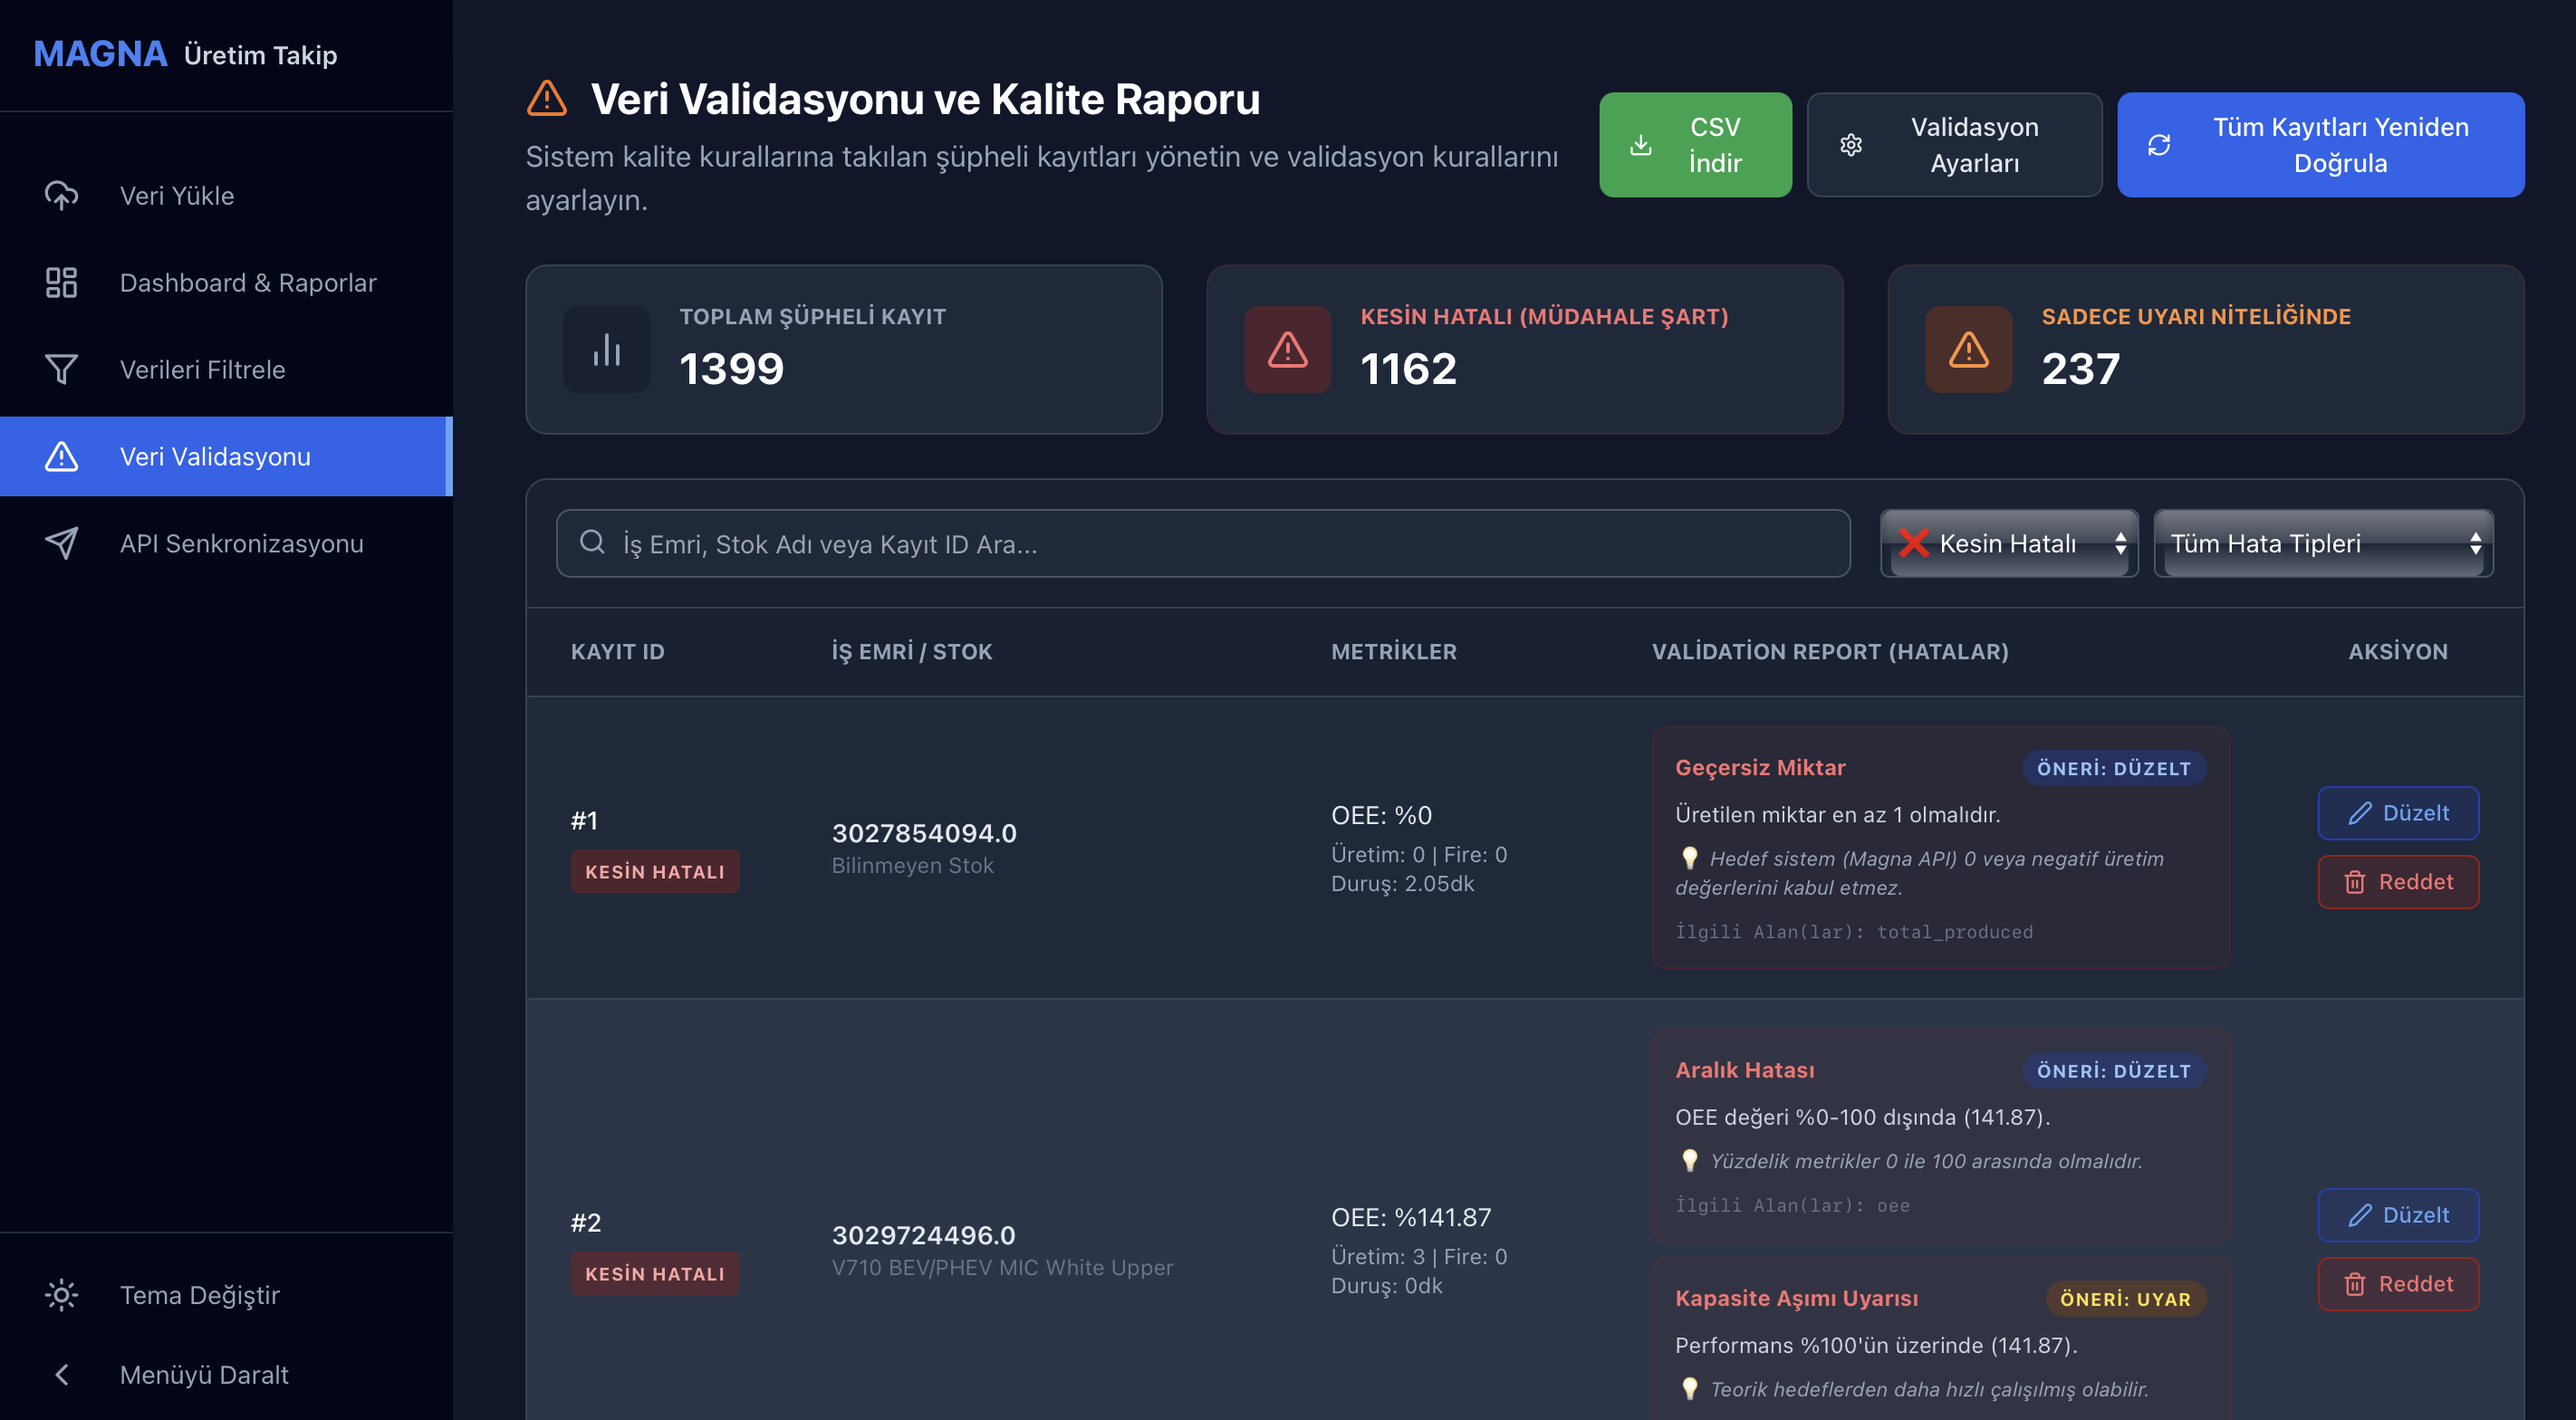
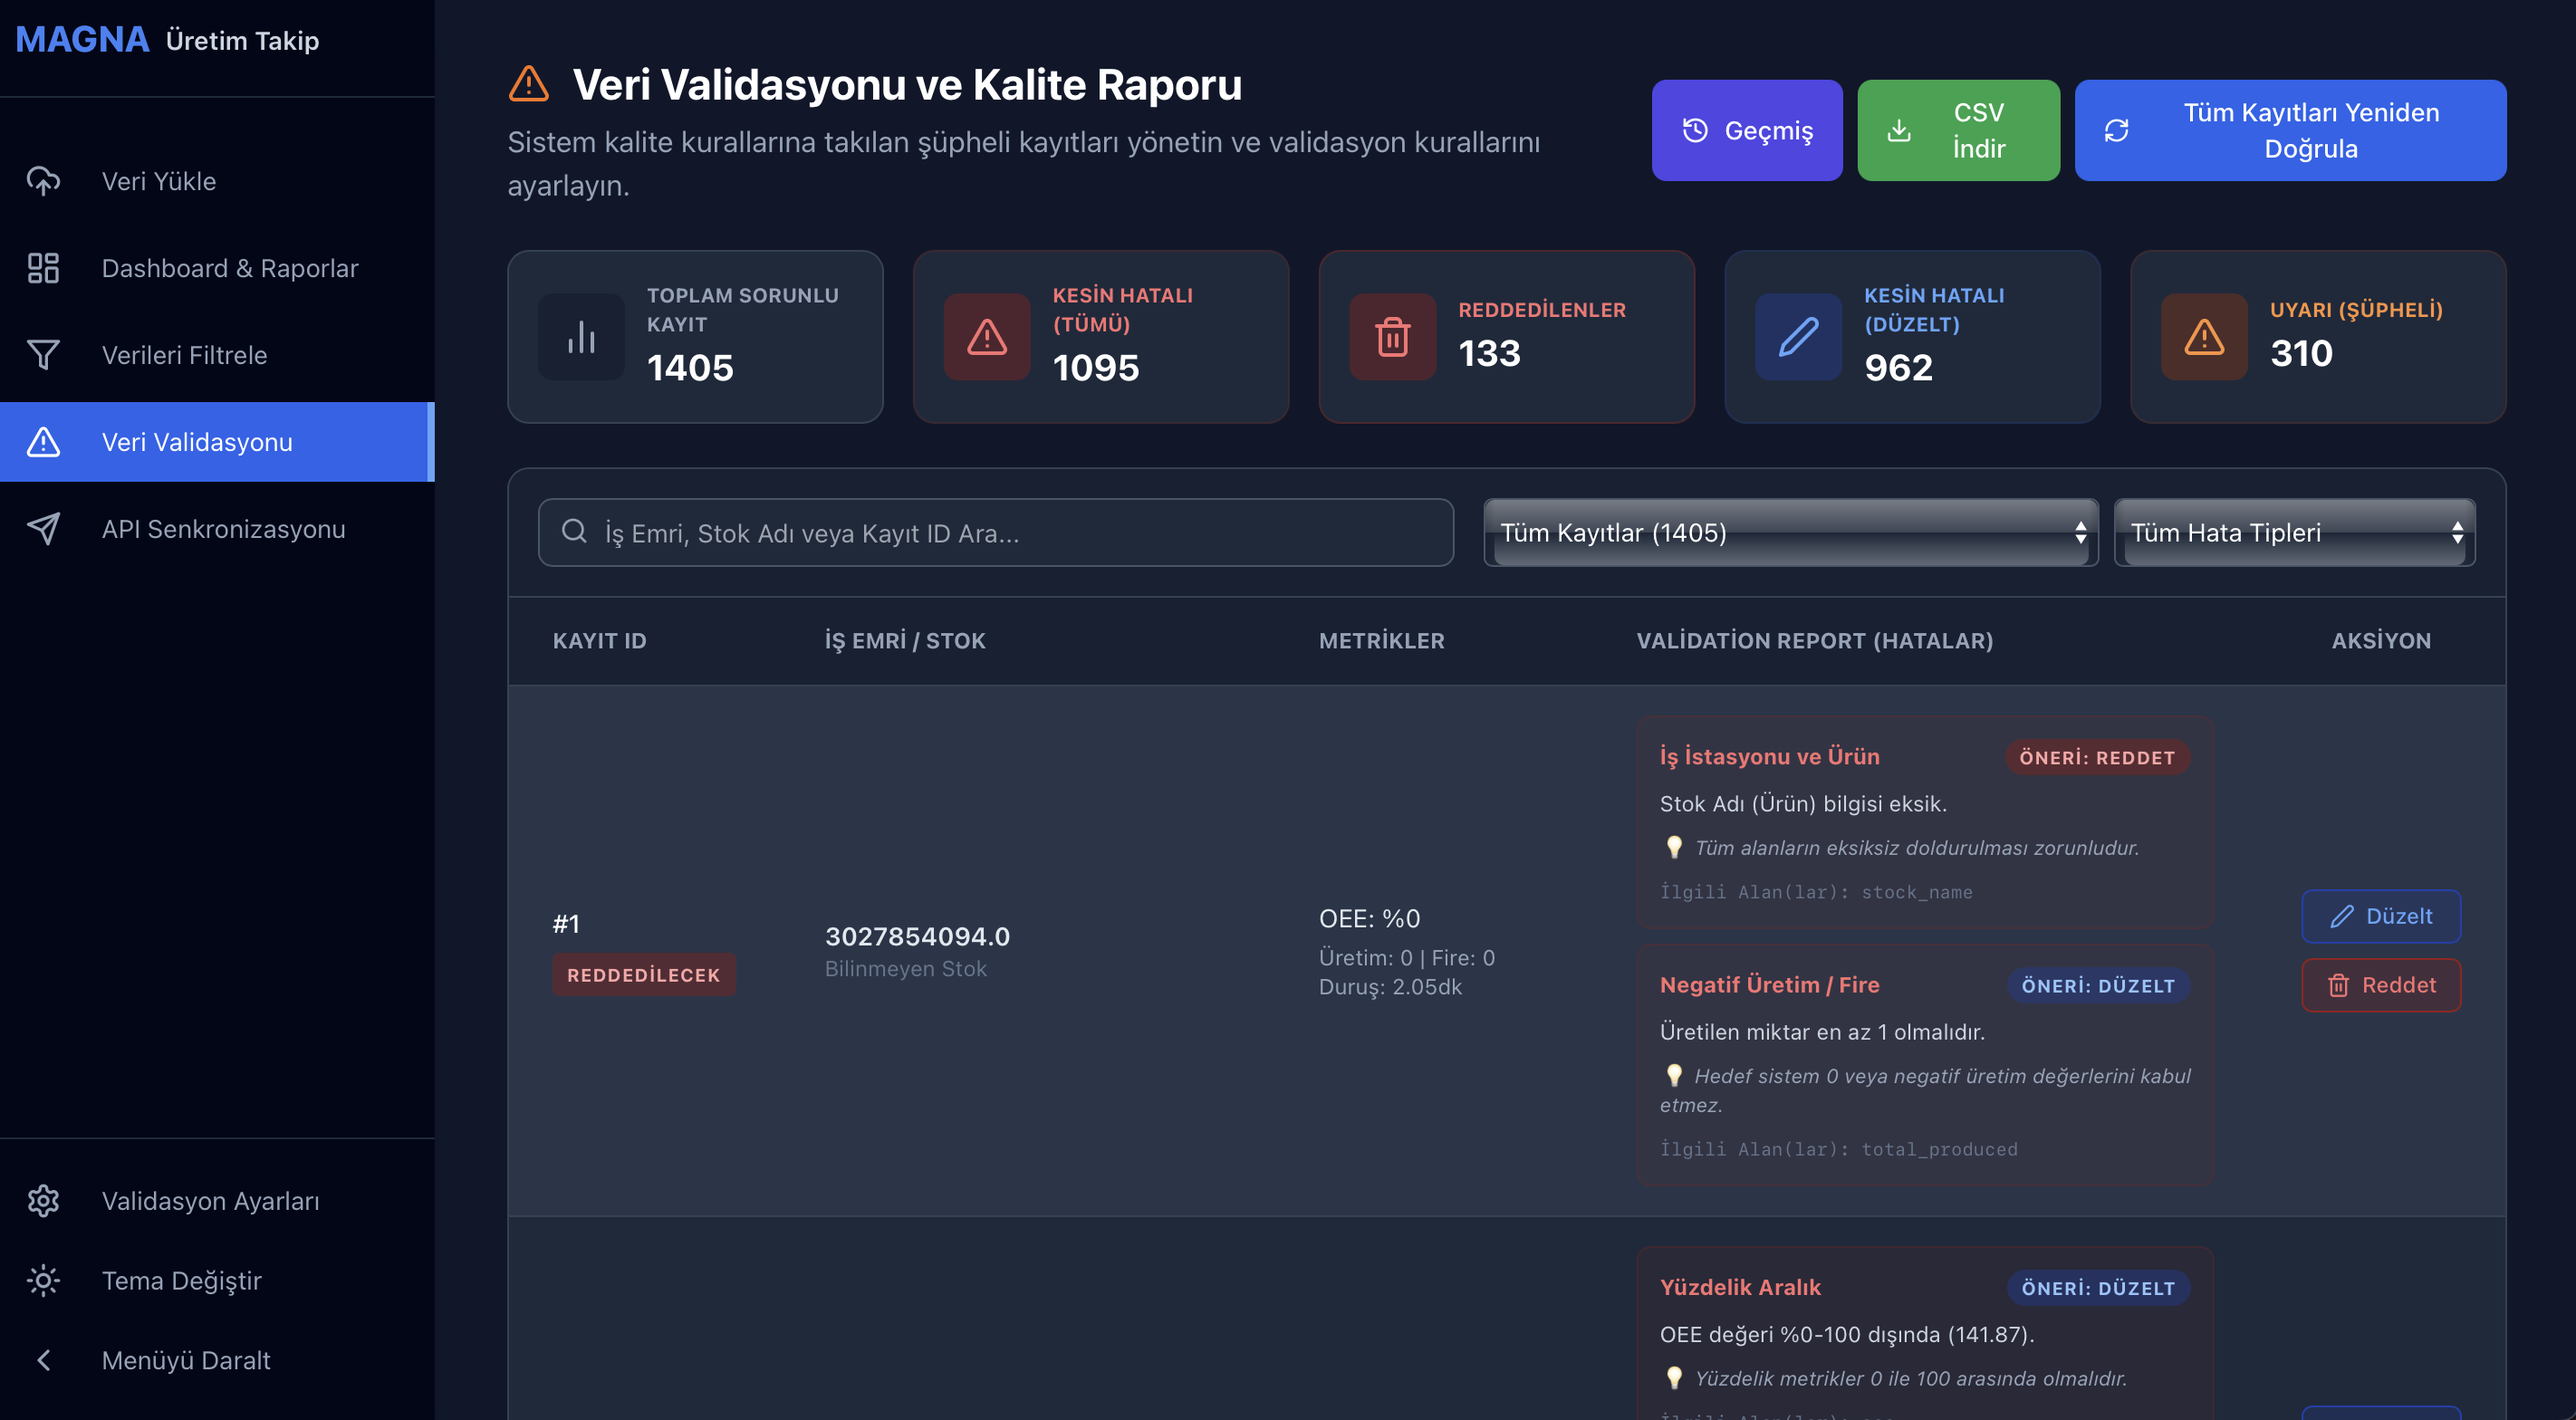
docs: README gorselleri guncellendi ve dinamik validasyon ayarlari detayi eklendi

diff --git a/README.md b/README.md
@@ -86,7 +86,10 @@ Sistemin kalbini oluşturan, kirli verileri tespit edip onarılmasını sağlaya
   * **❌ Kesin Hatalı (Reddedilenler):** İzlenebilirliği tamamen kırık veya kurtarılamayacak durumda olan eksik verilerdir (Örn: *İş İstasyonunun boş olması*). Sistem operatöre doğrudan bunu çöpe atmayı önerir. Hedef API'ye **asla gönderilmez**.
   * **✏ Kesin Hatalı (Düzeltilmesi Gerekenler):** Formata veya kurala uymayan, matematiksel olarak yanlış hesaplanmış ancak operatörün anlık müdahalesi ile onarılabilecek (kurtarılabilir) verilerdir. Arayüzde "Düzelt" dendiğinde A, P, Q değerleri değiştiği an **OEE otomatik hesaplanır**.
   * **⚠ Uyarı (Şüpheli):** Teorik kapasite aşımı (OEE > %100) gibi fiziksel olarak mümkün ama şüpheli durumlardır. Geçerli kabul edilebilir ancak arayüzde turuncu renkli bir bayrakla işaretlenir.
-* **Dinamik Validasyon Ayarları:** <br> ![Validasyon Ayarları](docs/validation2.png) <br> Sistemin kalite denetimi yaparken hangi kuralları dikkate alıp hangilerini görmezden geleceğini (Örn: *Negatif üretime izin ver/verme*) UI üzerinden anlık olarak yönetmenizi sağlar. Ayarlar kaydedildiğinde sistem tüm kayıtları yeniden test eder.
+* **Dinamik Validasyon Ayarları (Kural Motoru):** <br> ![Validasyon Ayarları](docs/validation2.png) <br> Teorik üretim kurallarını sahanın gerçeklerine uyarlamak için geliştirilmiş dinamik bir yönetim panelidir.
+  * Sistemdeki 17 farklı kalite kuralının aktif/pasif durumunu tek tıkla değiştirebilirsiniz.
+  * Kuralların varsayılan aksiyonlarını (**❌ Reddet, ✏ Düzelt, ⚠ Uyar**) fabrikanızın işleyişine göre esnetebilirsiniz. (Örn: *Gece vardiyasında atılan hatalı bir tarihi doğrudan 'Reddet' yapmak yerine, mühendisin onarabilmesi için 'Düzelt' seviyesine çekmek.*)
+  * Ayarlar kaydedildiği anda arka planda kusursuz bir `Revalidate` (Yeniden Doğrulama) işlemi çalışır ve veritabanındaki tüm kayıtlar anında yeni kurallara göre yeniden sınıflandırılır.
 
 ### 5. Hedef API Senkronizasyonu ve Log Kayıtları
 Bu bölüm %100 temizlenmiş verilerin hedef REST API'ye (Magna) aktarılmasını ve izlenmesini sağlar.
@@ -208,7 +211,7 @@ Hedef sistemle (Magna API) kurulan ağ iletişiminin kanıtlarını (Audit) tuta
 Case dokümanındaki taleplere ek olarak aşağıdaki "Senior" seviye mühendislik pratikleri projeye dahil edilmiştir:
 * **Genel Geçmiş Paneli (Audit Trail) ve Kayda Git:** Veritabanındaki tüm kullanıcı düzeltmelerini tek bir modalda, kronolojik olarak listeyen gelişmiş log panelidir. Logun yanındaki "Kayda Git" butonu ile binlerce veri arasından filtreler sıfırlanıp direkt olarak düzeltilen satıra otomatik odaklanılır.
 * **Dinamik Aksiyon Yönetimi:** Tüm validasyon kurallarının açık/kapalı durumu ve hata seviyeleri (Reddet, Uyar, Düzelt) arayüzden değiştirilebilir.
-* **Otomatik OEE Formülizasyonu:** "Düzelt" modülünde kullanıcı `A, P, Q` verilerini değiştirirken, OEE değeri anlık (real-time) hesaplanarak ekrana yansır.
+* **Veri Bütünlüğü (Data Integrity) ve Zincirleme Hesaplama:** Formül tabanlı olan metriklerin (OEE, Kalite, Kullanılabilirlik, Toplam Duruş) "Düzelt" formunda manuel girilmesi engellenmiştir (Read-Only/Disabled). Operatör yalnızca kök verileri (Örn: Fire Adedi, Plansız Duruş Süresi) değiştirdiğinde sistem tüm bağlı metrikleri domino etkisiyle eşzamanlı ve anlık (real-time) hesaplayarak veri tutarsızlığını (human-error) %100 önler.
 * **100K+ Satır Performansı:** Pandas `to_dict` ile RAM optimizasyonu sağlanmıştır.
 * **Yapay Zeka (AI) Şeffaflığı:** Süreç boyunca karşılaşılan zorluklarda veya mimari tartışmalarda yapay zeka araçlarından nasıl destek alındığı `.ai_usage` klasöründe paylaşılmıştır.
 * **Dışa Aktarma (Export):** İlgili raporlar ve gönderilmeyi bekleyen vardiyalar Excel/CSV ve PDF formatında sistemden indirilebilir.
